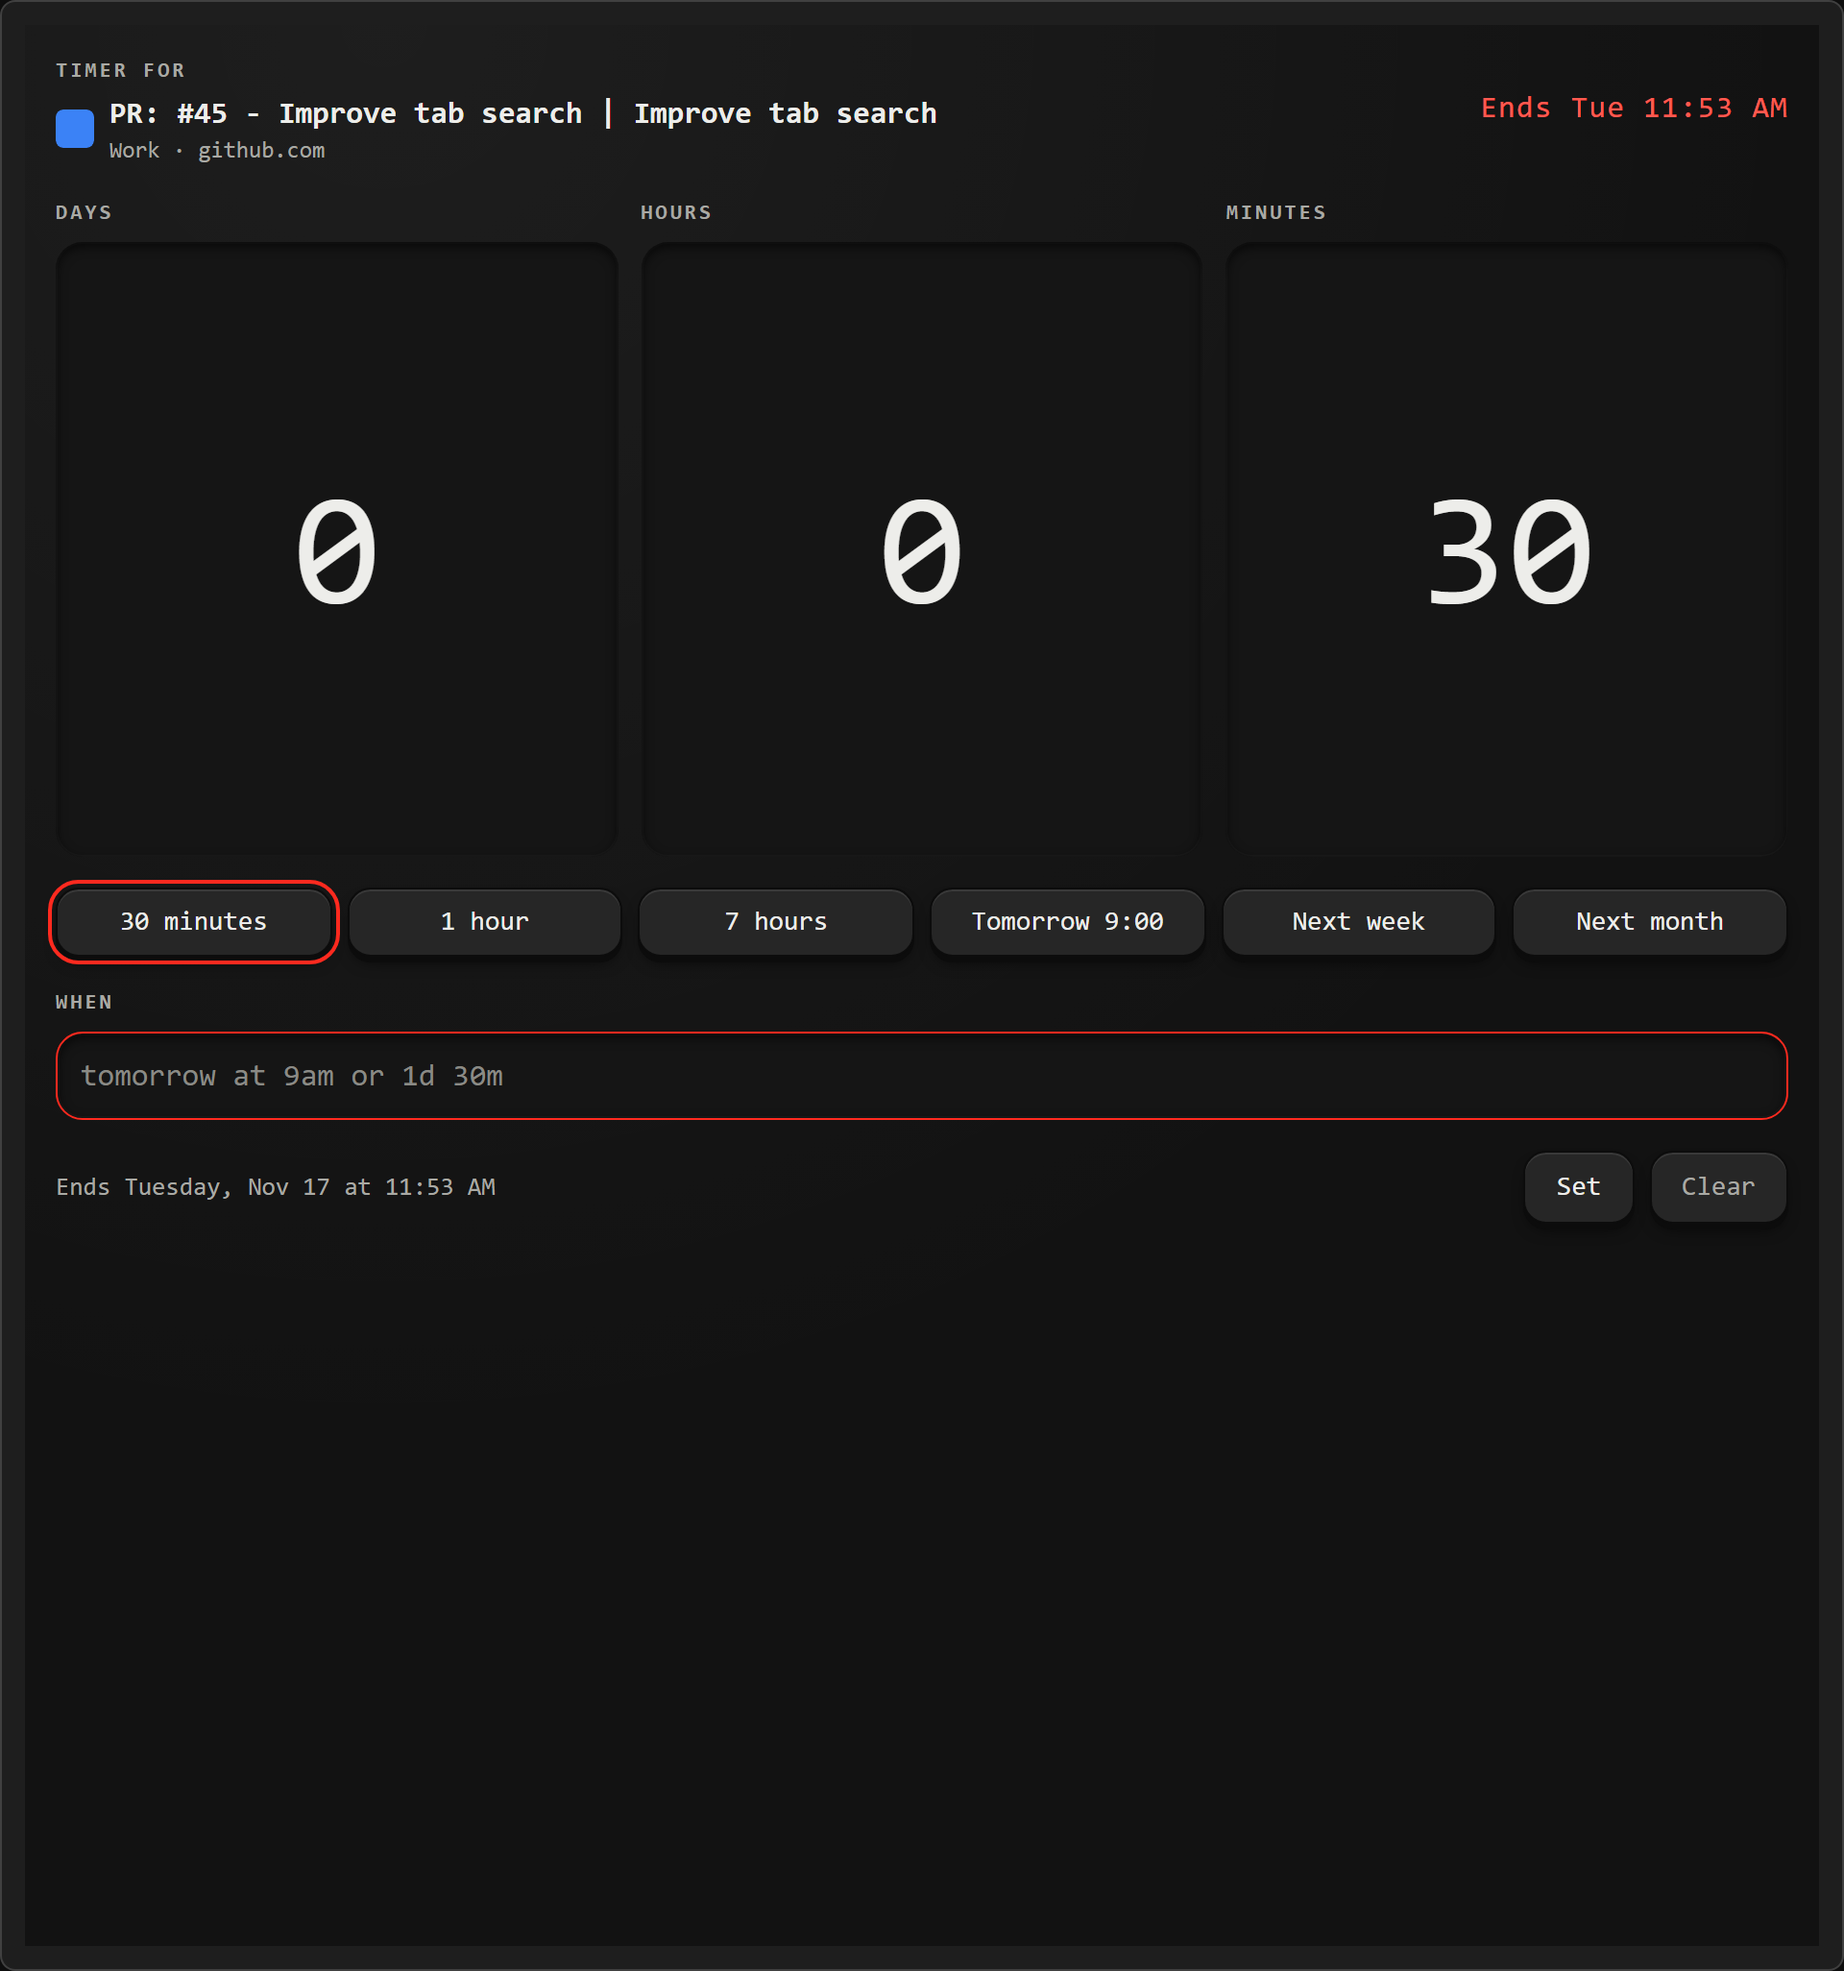
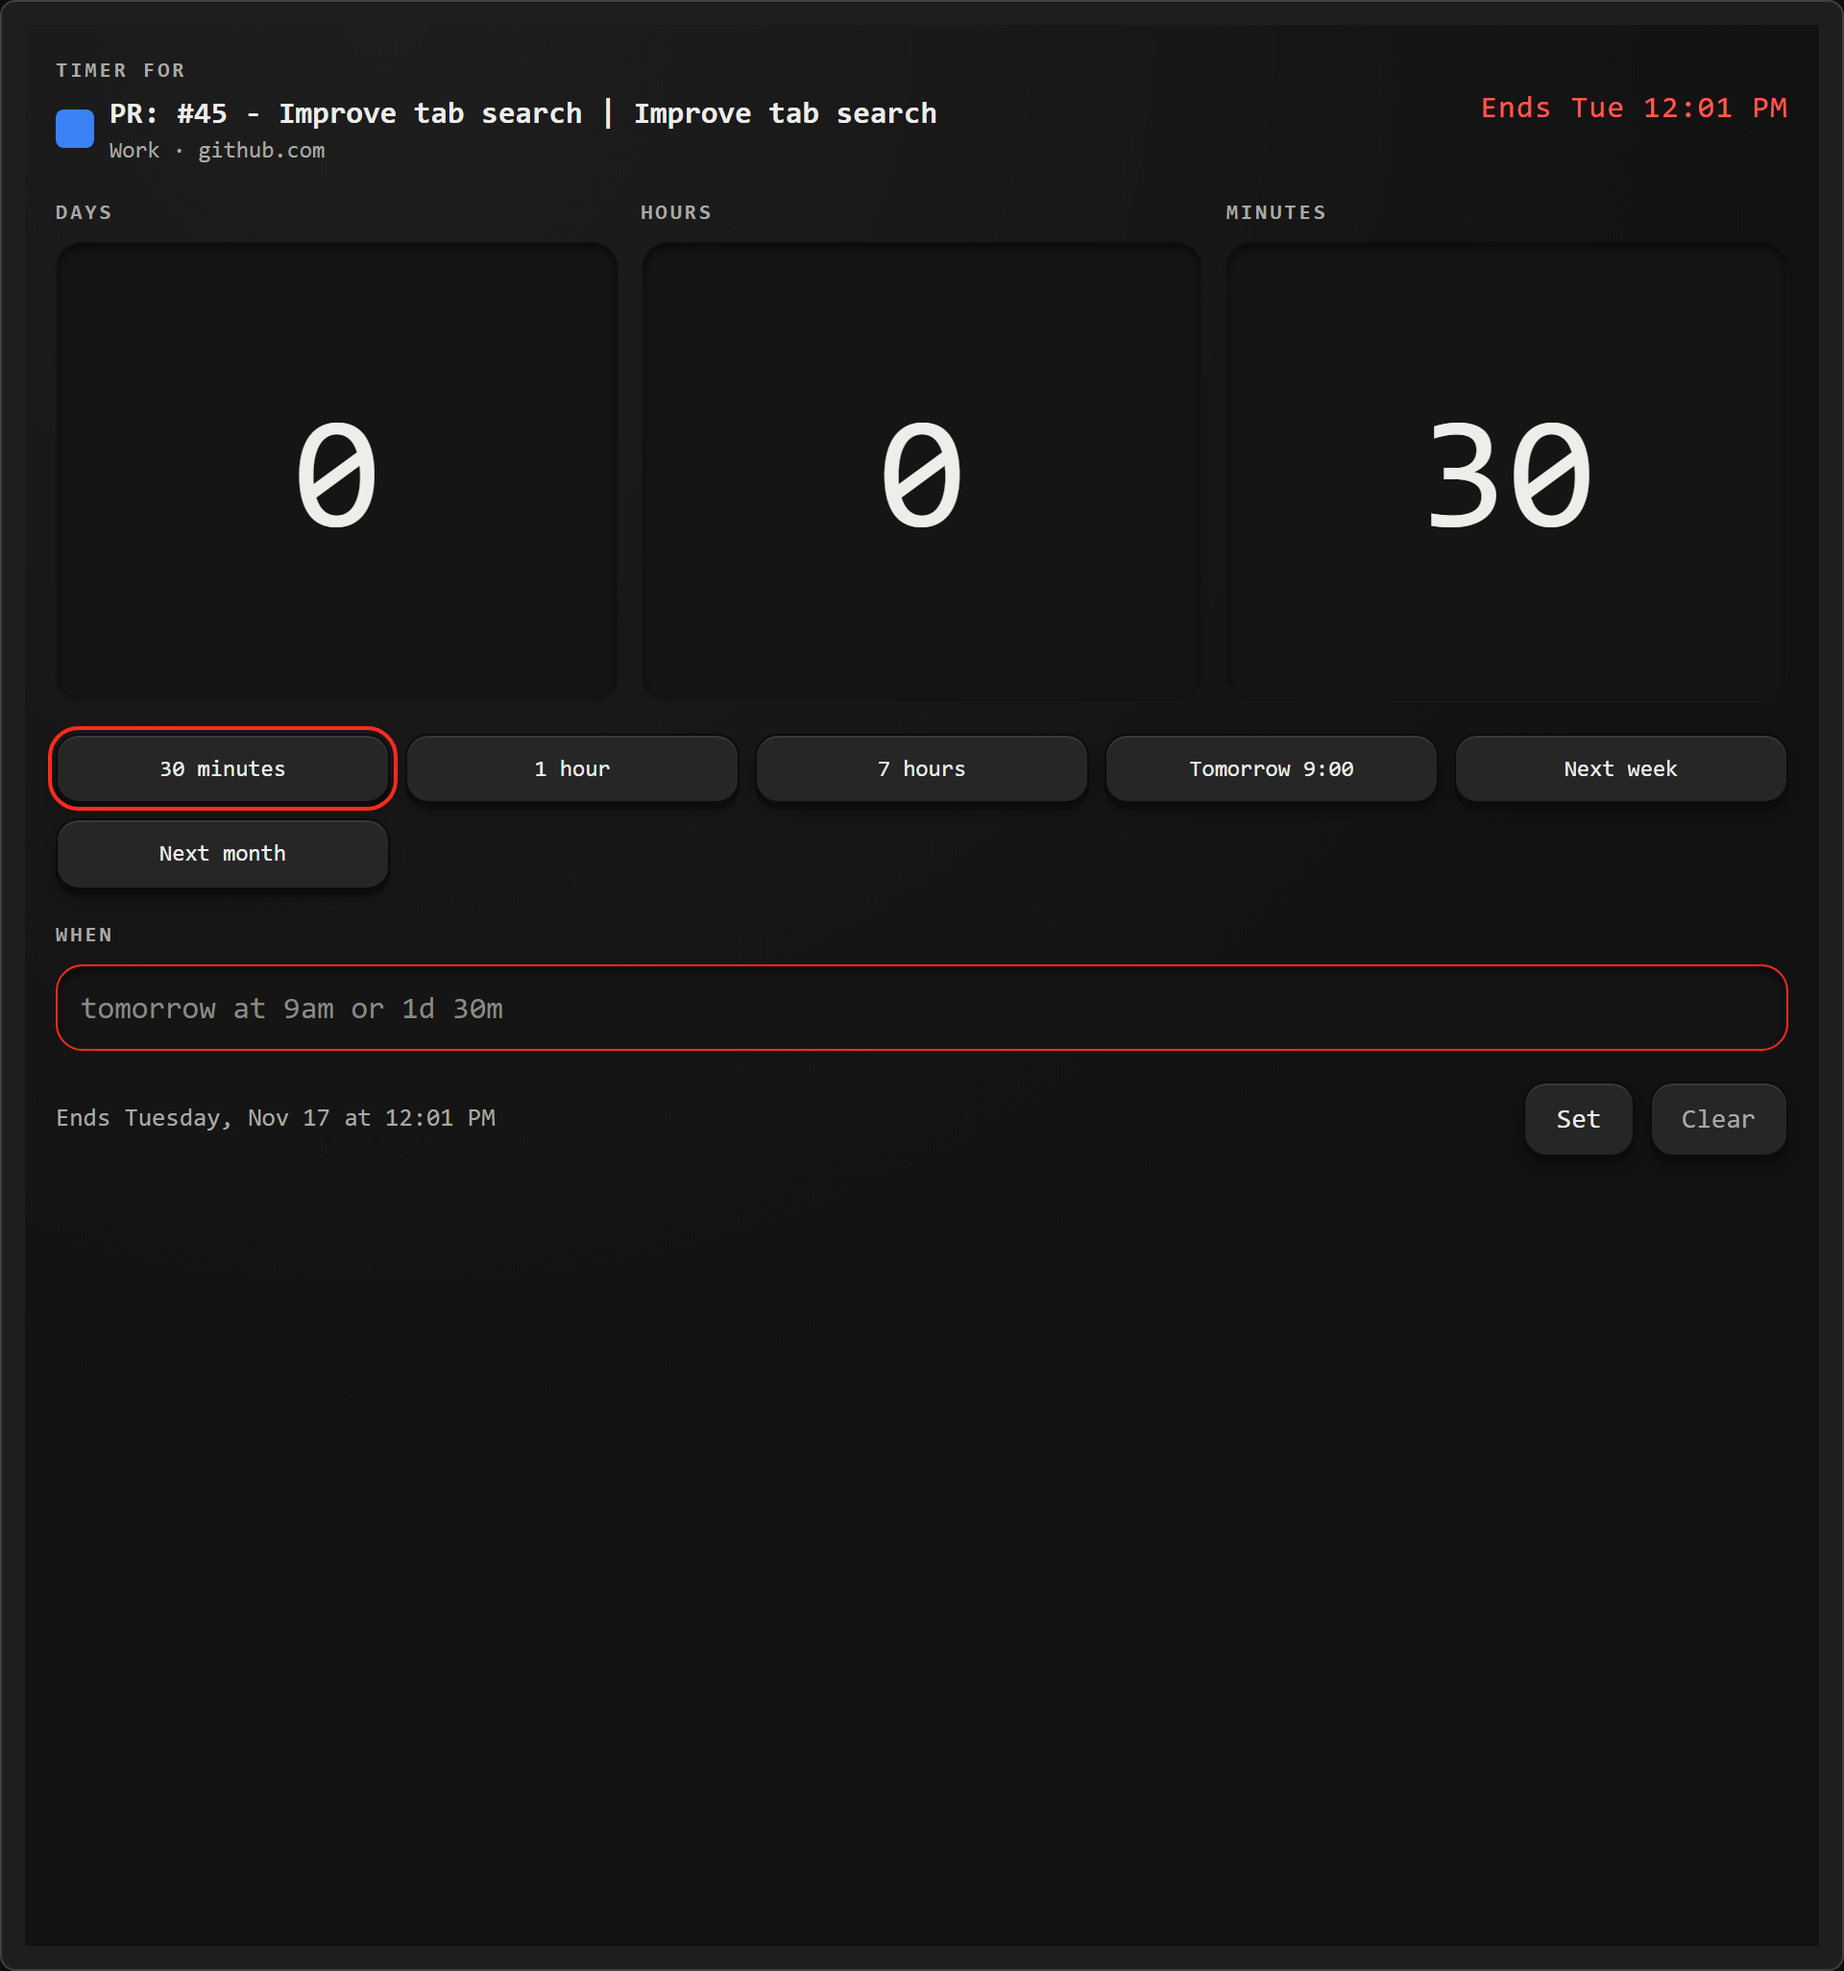
F(timers): fit the timer form in a tab window
zen-tab-search/
├─ features/timers/ui/TimerForm.tsx
│  Preset labels stay on one line and wrap as whole keys.
│  Wells shrink with a short window, and stay at most 320px.
│  The form under a tab row uses shorter wells.
│
├─ features/search/ui/components/TabSearchRow.tsx
│  The inline timer uses the compact wells.
│
├─ features/forge/ui/ForgeIssueNavigator.tsx
│  The issue row uses the same compact timer.
│
└─ docs/screenshots/
   Timer captures show the fitted form.

diff --git a/features/timers/ui/TimerForm.tsx b/features/timers/ui/TimerForm.tsx
@@ -30,6 +30,8 @@ export interface TimerFormProps {
   now?: number;
   /** Fires with the end time the wells and footer are showing. */
   onPreview?: (endAt: number) => void;
+  /** Smaller wells for the form opened under a tab row. */
+  compact?: boolean;
   onSet: (endAt: number) => void;
   onClear?: () => void;
 }
@@ -40,6 +42,7 @@ export function TimerForm({
   error,
   now = Date.now(),
   onPreview,
+  compact = false,
   onSet,
   onClear,
 }: TimerFormProps) {
@@ -97,7 +100,10 @@ export function TimerForm({
 
   return (
     <form
-      class="flex min-h-0 flex-1 flex-col gap-[var(--zen-space-4)]"
+      class={cn(
+        "[container-type:inline-size] flex min-h-0 flex-col",
+        compact ? "gap-[var(--zen-space-2)]" : "flex-1 gap-[var(--zen-space-4)]",
+      )}
       onClick={(event) => event.stopPropagation()}
       onSubmit={(event) => {
         event.preventDefault();
@@ -111,7 +117,14 @@ export function TimerForm({
         {DURATION_FIELDS.map(({ part, label }) => (
           <label key={part} class="flex flex-col gap-[var(--zen-space-2)]">
             <span class="zs-label">{label}</span>
-            <span class="zs-well [container-type:size] flex h-[320px] flex-none items-center rounded-[var(--zs-r-lcd)] px-[var(--zen-space-2)]">
+            <span
+              class={cn(
+                "zs-well [container-type:size] flex flex-none items-center rounded-[var(--zs-r-lcd)] px-[var(--zen-space-2)]",
+                compact
+                  ? "h-[calc(var(--zen-font-size)*5.5*var(--zen-scale))]"
+                  : "h-[min(320px,24svh,28cqi)]",
+              )}
+            >
               <input
                 class="h-full w-full bg-transparent text-center font-[inherit] text-[length:min(62cqh,calc(var(--zen-font-size)*6))] leading-none text-inherit outline-none"
                 inputMode="numeric"
@@ -146,14 +159,14 @@ export function TimerForm({
           </label>
         ))}
       </div>
-      <div class="grid grid-cols-6 gap-[var(--zen-space-2)]">
+      <div class="grid grid-cols-[repeat(auto-fit,minmax(22ch,1fr))] gap-[var(--zen-space-2)] text-[length:var(--zen-text-sm)]">
         {TIMER_PRESETS.map((preset) => (
           <button
             key={preset.id}
             type="button"
             class={cn(
               presetButtonClass,
-              "h-[calc(var(--zen-font-size)*2.6*var(--zen-scale))] px-[var(--zen-space-2)] text-[length:var(--zen-text-base)]",
+              "h-[calc(var(--zen-font-size)*2.6*var(--zen-scale))] px-[var(--zen-space-2)] whitespace-nowrap",
               preset.id === selectedPresetId &&
                 "outline-zen-accent outline outline-2 outline-offset-2",
             )}

diff --git a/features/forge/ui/ForgeIssueNavigator.tsx b/features/forge/ui/ForgeIssueNavigator.tsx
@@ -195,6 +195,7 @@ export function ForgeIssueNavigator({
             {timerOpen && tabId !== undefined && (
               <div class="px-[var(--zen-row-pad)] pb-[var(--zen-space-2)]">
                 <TimerForm
+                  compact
                   timer={timer}
                   onSet={(endAt) => onSetTimer(tabId, endAt)}
                   onClear={() => onClearTimer(tabId)}

diff --git a/features/search/ui/components/TabSearchRow.tsx b/features/search/ui/components/TabSearchRow.tsx
@@ -84,6 +84,7 @@ export const TabSearchRow = memo(function TabSearchRow({
       {timerOpen && tabId !== undefined && (
         <div class="pb-[var(--zen-space-2)]">
           <TimerForm
+            compact
             timer={timer}
             onSet={(endAt) => onSetTimer(tabId, endAt)}
             onClear={() => onClearTimer(tabId)}
